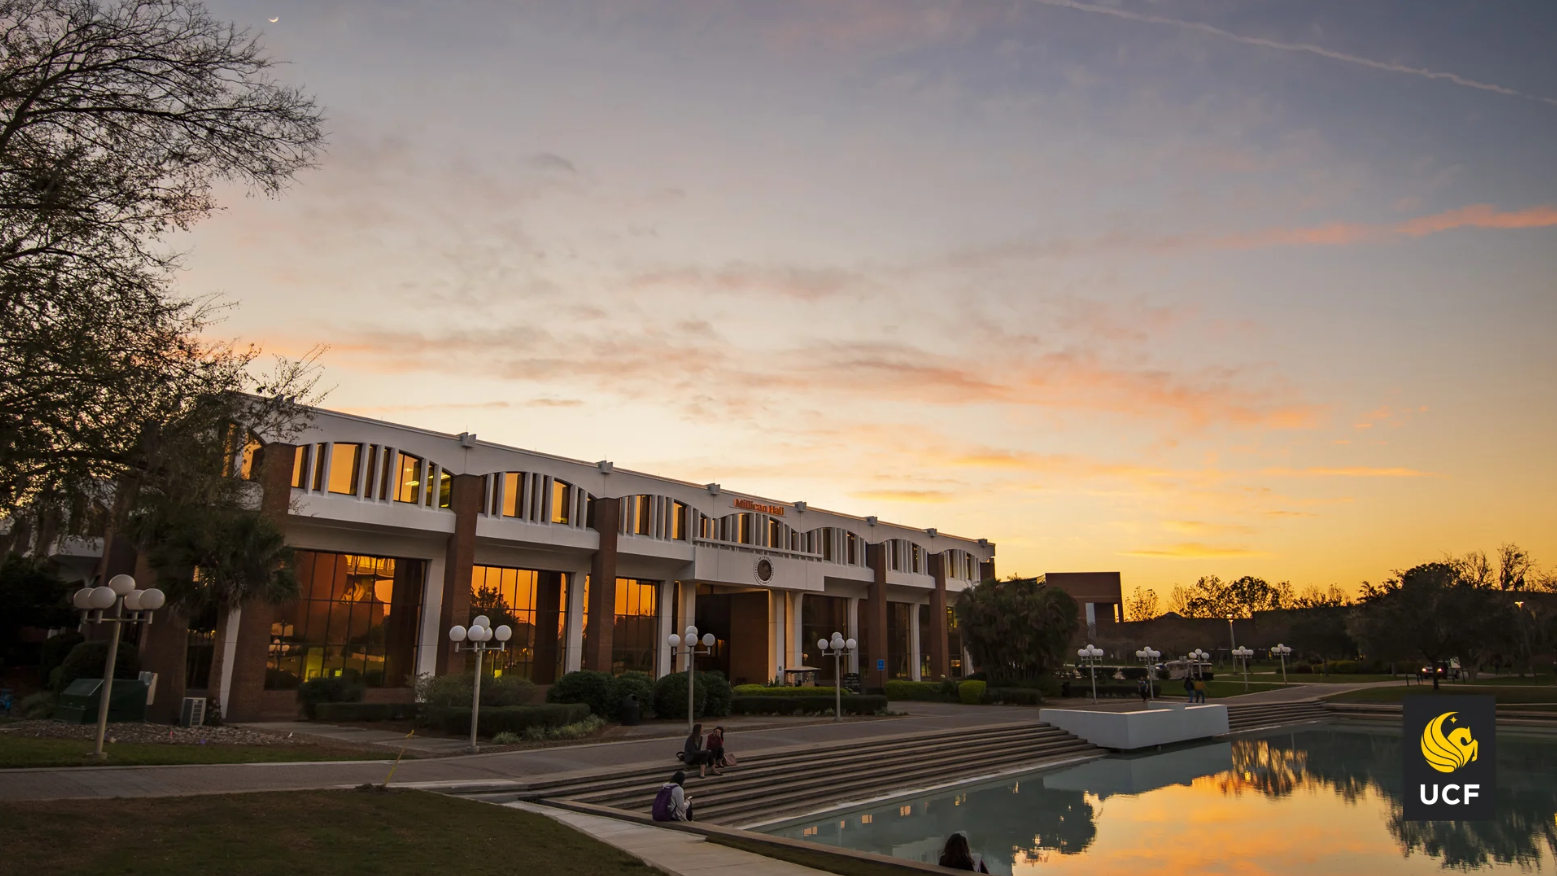
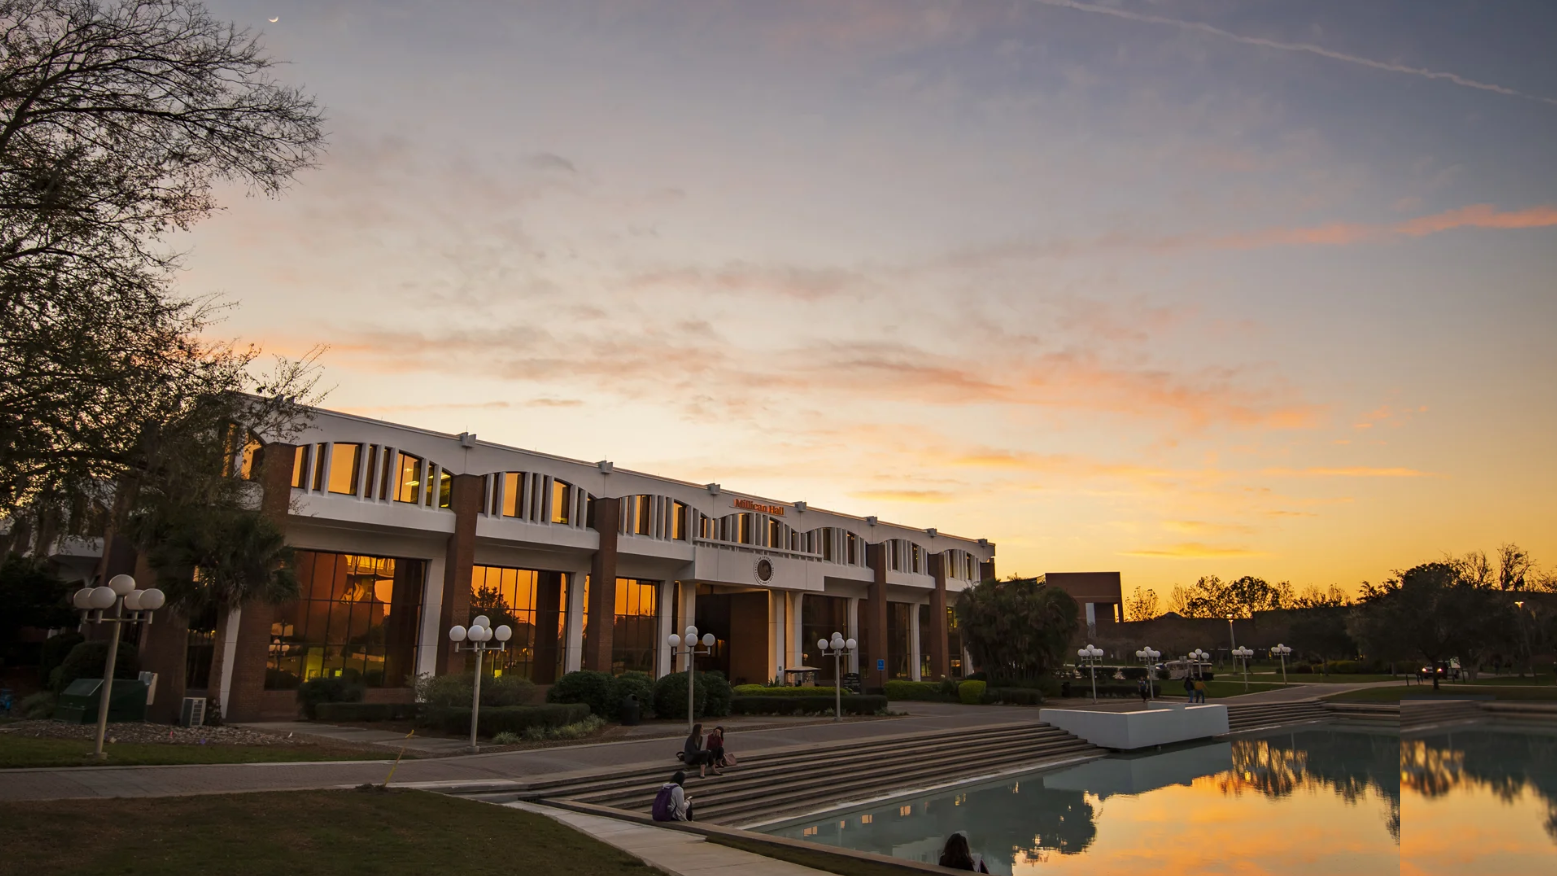
Homepage polish: crop hero badge, bigger seal, full-width footer, brand header
- Removed the UCF watermark badge baked into the hero photo's bottom-right
  corner by cloning over it in the source image, instead of relying on
  CSS background-position tricks (which broke full coverage on some
  aspect ratios).
- Enlarged the seal in "Made for Knights, by Knights" (56px -> 120px);
  text already sat to its right.
- Footer is now mounted outside Homepage's centered 1100px content wrapper
  so its black background runs full-bleed edge to edge, matching every
  other page.
- Fixed the scroll-to-top button never appearing on the homepage: its
  300px show-threshold was taller than the page's actual scroll range on
  most screens. Lowered to 80px.
- Restyled the "Trending Classes This Week" cards: replaced the unfinished
  placeholder gray-box look with a real card (surface background, border,
  theme-token text colors) that's legible in both light and dark mode.
- Added a "KnightRate" wordmark to the top-left of the shared TopBar,
  replacing the empty spacer slot on every non-back-button page.

Changed region(s): [[0.894, 0.8014, 1.0, 1.0]]

diff --git a/frontend/src/pages/Homepage.css b/frontend/src/pages/Homepage.css
@@ -179,8 +179,8 @@
 }
 
 .intro-logo {
-  width: 56px;
-  height: 56px;
+  width: 120px;
+  height: 120px;
   object-fit: contain;
   flex-shrink: 0;
 }
@@ -228,7 +228,7 @@
 
 .cards-row-empty {
   font-size: 13px;
-  color: #888888;
+  color: var(--color-text-muted);
   margin: 0;
   padding: 8px 0;
 }
@@ -236,10 +236,11 @@
 .card {
   flex: 1 1 calc(25% - 16px);
   min-width: 130px;
-  height: 70px;
-  background: var(--color-border); /* placeholder blocks; swap to --color-surface for real cards */
+  height: 76px;
+  background: var(--color-surface);
+  border: 1px solid var(--color-border);
   border-radius: 8px;
-  box-shadow: 0 1px 3px rgba(0, 0, 0, 0.06);
+  box-shadow: 0 1px 3px rgba(0, 0, 0, 0.08);
   cursor: pointer;
   display: flex;
   flex-direction: column;
@@ -249,11 +250,12 @@
   padding: 0 14px;
   box-sizing: border-box;
   text-align: left;
-  transition: box-shadow 0.2s ease, transform 0.2s ease;
+  transition: box-shadow var(--transition-fast), transform var(--transition-fast), border-color var(--transition-fast);
 }
 
 .card:hover {
-  box-shadow: 0 2px 8px rgba(0, 0, 0, 0.12);
+  box-shadow: 0 2px 10px rgba(0, 0, 0, 0.14);
+  border-color: var(--color-primary);
   transform: translateY(-1px);
 }
 
@@ -261,12 +263,12 @@
   font-family: "Montserrat", "Helvetica Neue", Arial, sans-serif;
   font-weight: 700;
   font-size: 12px;
-  color: #BD9A36;
+  color: var(--gold-dark);
 }
 
 .card-title {
   font-size: 12px;
-  color: #242021;
+  color: var(--color-text);
   line-height: 1.3;
   overflow: hidden;
   text-overflow: ellipsis;
@@ -297,8 +299,8 @@
   }
 
   .intro-logo {
-    width: 48px;
-    height: 48px;
+    width: 84px;
+    height: 84px;
   }
 
   .card {

diff --git a/frontend/src/App.jsx b/frontend/src/App.jsx
@@ -158,8 +158,8 @@ function App() {
     );
   }
 
-  // Homepage mounts its own Footer inside the expandable panel (its panel is
-  // position:fixed and would otherwise cover a normal-flow footer below it).
+  // Homepage mounts its own Footer (full-bleed, outside its centered content
+  // wrapper) so it isn't rendered a second time here.
   const showFooter = view !== 'home';
 
   return (

diff --git a/frontend/src/pages/components/TopBar.css b/frontend/src/pages/components/TopBar.css
@@ -28,9 +28,13 @@
   background: color-mix(in srgb, var(--black) 60%, transparent);
 }
 
-.top-bar-spacer {
-  width: 26px;
-  height: 26px;
+.top-bar-brand {
+  font-family: "Montserrat", "Helvetica Neue", Arial, sans-serif;
+  font-weight: 700;
+  font-size: 18px;
+  letter-spacing: 0.02em;
+  color: var(--white);
+  white-space: nowrap;
 }
 
 .back-btn {

diff --git a/frontend/src/pages/components/TopBar.jsx b/frontend/src/pages/components/TopBar.jsx
@@ -33,7 +33,7 @@ function TopBar({
           </svg>
         </button>
       ) : (
-        <div className="top-bar-spacer" />
+        <span className="top-bar-brand">KnightRate</span>
       )}
 
       <nav className="top-bar-icons">

diff --git a/frontend/src/pages/components/ScrollToTopButton.jsx b/frontend/src/pages/components/ScrollToTopButton.jsx
@@ -1,7 +1,7 @@
 import { useEffect, useState } from 'react';
 import './ScrollToTopButton.css';
 
-const SHOW_AFTER_PX = 300;
+const SHOW_AFTER_PX = 80;
 
 function ScrollToTopButton() {
   const [visible, setVisible] = useState(false);

diff --git a/frontend/src/pages/Homepage.jsx b/frontend/src/pages/Homepage.jsx
@@ -115,9 +115,9 @@ function Homepage({
               ))
             )}
           </section>
-
-          <Footer />
         </div>
+
+        <Footer />
       </main>
     </div>
   );
